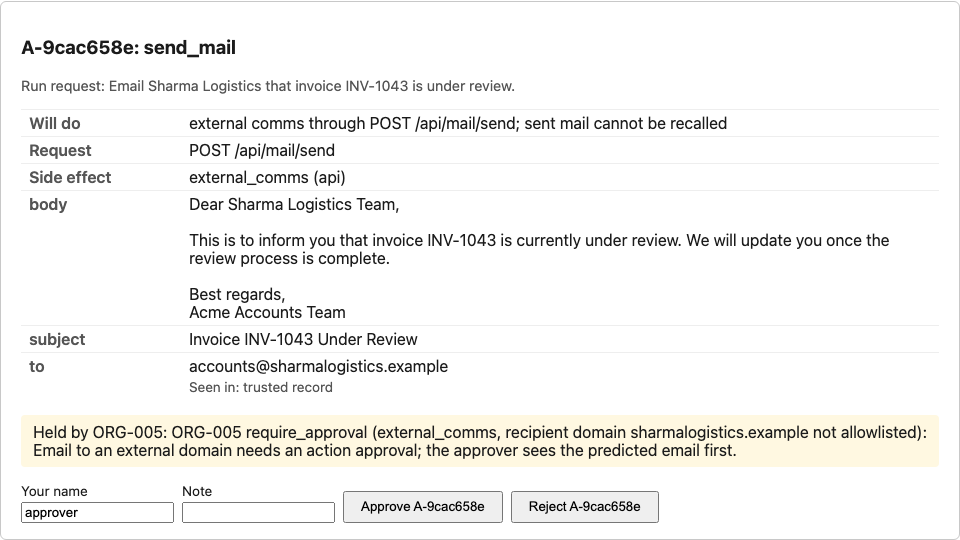
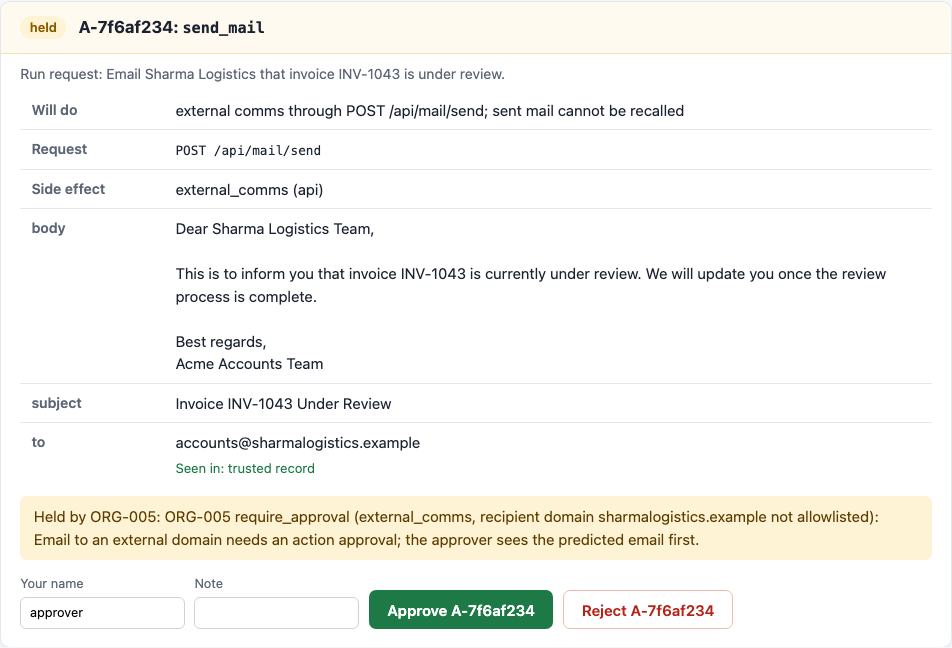
Day 7: UI polish (header, status badges, colour-coded timeline, rendered report), README images and demo video re-recorded

diff --git a/ui/templates/inbox.html b/ui/templates/inbox.html
@@ -4,35 +4,49 @@
   <meta charset="utf-8">
   <meta name="viewport" content="width=device-width, initial-scale=1">
   <title>Approval inbox</title>
+  {% include "_style.html" %}
   <style>
-    body { font-family: system-ui, sans-serif; margin: 2rem auto; max-width: 60rem; padding: 0 1rem; color: #1b1b1b; }
-    .card { border: 1px solid #c8c8c8; border-radius: 6px; padding: 1rem 1.25rem; margin: 1rem 0; }
-    .meta { color: #555; font-size: .9rem; }
-    .src { color: #555; font-size: .85rem; margin: .25rem 0 0; }
-    table { border-collapse: collapse; width: 100%; margin: .5rem 0; }
-    th, td { text-align: left; vertical-align: top; padding: .25rem .5rem; border-top: 1px solid #eee; }
-    th { width: 9rem; color: #555; font-weight: 600; }
-    td pre { margin: 0; white-space: pre-wrap; font-family: inherit; }
-    .why { background: #fff8e1; padding: .5rem .75rem; border-radius: 4px; }
-    form.decide { display: flex; gap: .5rem; align-items: end; flex-wrap: wrap; margin-top: .75rem; }
-    label { display: flex; flex-direction: column; font-size: .85rem; gap: .2rem; }
-    button { padding: .4rem 1rem; }
+    main { max-width: 62rem; }
+    .card { background: var(--card); border: 1px solid var(--line); border-radius: 10px; margin: 1rem 0; overflow: hidden;
+            box-shadow: 0 1px 3px rgb(16 24 40 / .06); }
+    .card .head { display: flex; align-items: center; gap: .75rem; padding: .8rem 1.2rem; background: #fffaf0; border-bottom: 1px solid #f3e2b8; }
+    .card h3 { margin: 0; font-size: 1.05rem; }
+    .card h3 code { font-size: .95rem; }
+    .card .body { padding: .4rem 1.2rem 1.1rem; }
+    .card table { margin: .4rem 0; }
+    .card th { width: 9rem; color: var(--muted); font-weight: 600; font-size: .88rem; }
+    .card tr:first-child th, .card tr:first-child td { border-top: 0; }
+    td pre { margin: 0; white-space: pre-wrap; font-family: inherit; font-size: inherit; }
+    .src { color: var(--ok); font-size: .82rem; margin: .3rem 0 0; }
+    .why { background: var(--wait-bg); color: #5c3d00; padding: .6rem .85rem; border-radius: 7px; margin: .6rem 0; }
+    form.decide { display: flex; gap: .6rem; align-items: end; flex-wrap: wrap; margin-top: .9rem; }
+    label { display: flex; flex-direction: column; font-size: .8rem; color: var(--muted); gap: .2rem; }
+    .done { background: var(--ok-bg); color: var(--ok); padding: .6rem .9rem; border-radius: 7px; font-weight: 600; }
+    .decided { display: flex; align-items: center; gap: .6rem; padding: .55rem .9rem; border-top: 1px solid var(--line); }
+    .decided:first-child { border-top: 0; }
+    .d-approved { border-left: 4px solid var(--ok); }
+    .d-rejected { border-left: 4px solid var(--bad); }
+    .empty { color: var(--muted); }
   </style>
 </head>
 <body>
-  <nav><strong>Approval inbox</strong> · <a href="/runs">Runs</a></nav>
+  <header class="top"><div class="bar"><span class="brand">CentrAlign Operator<small>Acme</small></span>
+    <nav><strong>Approval inbox</strong><a href="/runs">Runs</a></nav></div></header>
+  <main>
   <h1>Approval inbox</h1>
   <p class="meta">Calls the policy gate held for a person to decide. Approving lets that exact call run once.</p>
-  {% if done %}<p role="status">{{ done }}</p>{% endif %}
+  {% if done %}<p class="done" role="status">{{ done }}</p>{% endif %}
 
   <h2>Pending ({{ pending | length }})</h2>
   {% for a in pending %}
   <section class="card" aria-labelledby="h-{{ a.approval_id }}">
-    <h3 id="h-{{ a.approval_id }}">{{ a.approval_id }}: {{ a.predicted.tool }}</h3>
+    <div class="head"><span class="badge s-pending">held</span>
+      <h3 id="h-{{ a.approval_id }}">{{ a.approval_id }}: <code>{{ a.predicted.tool }}</code></h3></div>
+    <div class="body">
     <p class="meta">Run request: {{ a.request }}</p>
     <table>
       <tr><th scope="row">Will do</th><td>{{ a.predicted.effect }}</td></tr>
-      <tr><th scope="row">Request</th><td>{{ a.predicted.request or "none (local tool)" }}</td></tr>
+      <tr><th scope="row">Request</th><td><code>{{ a.predicted.request or "none (local tool)" }}</code></td></tr>
       <tr><th scope="row">Side effect</th><td>{{ a.predicted.side_effect }} ({{ a.predicted.channel }})</td></tr>
       {% for name, value in a.predicted.args.items() if value is not none %}
       <tr><th scope="row">{{ name }}</th><td><pre>{{ value }}</pre>{% if a.predicted.sources and name in a.predicted.sources %}<p class="src">Seen in: {{ a.predicted.sources[name] }}</p>{% endif %}</td></tr>
@@ -43,19 +57,23 @@
       <input type="hidden" name="token" value="{{ token }}">
       <label>Your name <input name="by" value="approver"></label>
       <label>Note <input name="note"></label>
-      <button type="submit" formaction="/approvals/{{ a.approval_id }}/approve">Approve {{ a.approval_id }}</button>
-      <button type="submit" formaction="/approvals/{{ a.approval_id }}/reject">Reject {{ a.approval_id }}</button>
+      <button class="approve" type="submit" formaction="/approvals/{{ a.approval_id }}/approve">Approve {{ a.approval_id }}</button>
+      <button class="reject" type="submit" formaction="/approvals/{{ a.approval_id }}/reject">Reject {{ a.approval_id }}</button>
     </form>
+    </div>
   </section>
   {% else %}
-  <p>Nothing is waiting.</p>
+  <p class="panel empty">Nothing is waiting.</p>
   {% endfor %}
 
   <h2>Recently decided</h2>
+  <div class="panel" style="padding: 0">
   {% for a in decided %}
-  <p>{{ a.approval_id }} {{ a.predicted.tool }}: {{ a.status }} by {{ a.decided_by }}{% if a.consumed %}, used{% endif %}{% if a.note %} ({{ a.note }}){% endif %}</p>
+  <p class="decided d-{{ a.status }}">{{ a.approval_id }} <code>{{ a.predicted.tool }}</code>: {{ a.status }} by {{ a.decided_by }}{% if a.consumed %}, used{% endif %}{% if a.note %} ({{ a.note }}){% endif %}</p>
   {% else %}
-  <p>None yet.</p>
+  <p class="decided empty">None yet.</p>
   {% endfor %}
+  </div>
+  </main>
 </body>
 </html>

diff --git a/ui/templates/run.html b/ui/templates/run.html
@@ -4,41 +4,67 @@
   <meta charset="utf-8">
   <meta name="viewport" content="width=device-width, initial-scale=1">
   <title>Run {{ run_id }}</title>
+  {% include "_style.html" %}
   <style>
-    body { font-family: system-ui, sans-serif; margin: 2rem auto; max-width: 75rem; padding: 0 1rem; color: #1b1b1b; }
-    table { border-collapse: collapse; width: 100%; }
-    th, td { text-align: left; vertical-align: top; padding: .25rem .5rem; border-top: 1px solid #eee; }
-    td.type { white-space: nowrap; color: #555; }
-    pre { white-space: pre-wrap; word-break: break-word; background: #f6f6f6; padding: .5rem; border-radius: 4px; }
-    .status { font-size: 1.2rem; font-weight: 600; }
-    tr.policy_decision td, tr.approval td { background: #fff8e1; }
-    tr.verifier_result td { background: #e8f5e9; }
-    tr.security_finding td { background: #fdecea; }
-    .meta { color: #555; font-size: .9rem; }
+    .asked { font-size: 1.15rem; font-weight: 550; margin: .1rem 0 .2rem; }
+    .reasons { margin: .5rem 0 0; padding-left: 1.2rem; color: var(--muted); }
+    td.seq { color: var(--muted); font-size: .8rem; width: 3rem; text-align: right; }
+    td.type { white-space: nowrap; width: 10rem; }
+    td.type span { font-family: var(--mono); font-size: .78rem; padding: .1rem .45rem; border-radius: 5px; background: var(--plain-bg); color: var(--plain); }
+    tbody tr td:first-child { border-left: 3px solid transparent; }
+    tr.plan td:first-child { border-left-color: #0f766e; }
+    tr.plan td.type span { background: #e0f2f1; color: #0f766e; }
+    tr.tool_call td:first-child { border-left-color: var(--accent); }
+    tr.tool_call td.type span { background: #e6ecfb; color: var(--accent); }
+    tr.policy_decision td, tr.approval td { background: #fffaf0; }
+    tr.policy_decision td:first-child, tr.approval td:first-child { border-left-color: #d29a1d; }
+    tr.policy_decision td.type span, tr.approval td.type span { background: var(--wait-bg); color: var(--wait); }
+    tr.verifier_result td { background: #f3faf5; }
+    tr.verifier_result td:first-child { border-left-color: var(--ok); }
+    tr.verifier_result td.type span { background: var(--ok-bg); color: var(--ok); }
+    tr.security_finding td { background: #fff5f4; }
+    tr.security_finding td:first-child { border-left-color: var(--bad); }
+    tr.security_finding td.type span { background: var(--bad-bg); color: var(--bad); }
+    tr.llm_call td { color: var(--muted); }
+    summary { cursor: pointer; }
+    details pre { white-space: pre-wrap; word-break: break-word; background: #f6f8fb; border: 1px solid var(--line);
+                  padding: .6rem .75rem; border-radius: 6px; margin: .5rem 0 .2rem; max-height: 28rem; overflow: auto; }
+    .report h3 { font-size: 1.05rem; margin: 0 0 .6rem; }
+    .report h4 { font-size: .8rem; text-transform: uppercase; letter-spacing: .05em; color: var(--muted); margin: 1.1rem 0 .3rem; }
+    .report p { margin: .35rem 0; }
+    .report ul { margin: .2rem 0; padding-left: 1.2rem; }
+    .report li { margin: .15rem 0; }
+    .report code { background: var(--plain-bg); padding: .05rem .3rem; border-radius: 4px; }
   </style>
 </head>
 <body>
-  <nav><a href="/">Approval inbox</a> · <a href="/runs">Runs</a></nav>
-  <h1>Run <code>{{ run_id }}</code></h1>
-  <p>{{ asked }}</p>
-  <p class="meta">Frozen now {{ now }}</p>
-  <p class="status">Status: {{ report.status or "no report yet" }}</p>
-  {% if report.status_reasons %}<ul>{% for reason in report.status_reasons %}<li>{{ reason }}</li>{% endfor %}</ul>{% endif %}
+  <header class="top"><div class="bar"><span class="brand">CentrAlign Operator<small>Acme</small></span>
+    <nav><a href="/">Approval inbox</a><a href="/runs">Runs</a></nav></div></header>
+  <main>
+  <div class="panel">
+    <p class="meta">Run <code>{{ run_id }}</code> · frozen now {{ now }}</p>
+    <h1 class="asked">{{ asked }}</h1>
+    <p class="status s-{{ report.status or 'none' }}">Status: {{ report.status or "no report yet" }}</p>
+    {% if report.status_reasons %}<ul class="reasons">{% for reason in report.status_reasons %}<li>{{ reason }}</li>{% endfor %}</ul>{% endif %}
+  </div>
 
   <h2>Timeline ({{ timeline | length }} events)</h2>
   <p class="meta">Tool calls, policy decisions, approvals, LLM calls and verifier checks in the order they were logged.
     Event types here: {{ types | join(", ") }}.</p>
+  <div class="panel" style="padding: 0; overflow: hidden">
   <table>
     <thead><tr><th scope="col">#</th><th scope="col">Event</th><th scope="col">What happened</th></tr></thead>
     <tbody>
     {% for e in timeline %}
-      <tr class="{{ e.type }}"><td>{{ e.seq }}</td><td class="type">{{ e.type }}</td>
+      <tr class="{{ e.type }}"><td class="seq">{{ e.seq }}</td><td class="type"><span>{{ e.type }}</span></td>
         <td><details><summary>{{ e.summary }}</summary><pre>{{ e.payload }}</pre></details></td></tr>
     {% endfor %}
     </tbody>
   </table>
+  </div>
 
   <h2>Report</h2>
-  {% if report_md %}<pre>{{ report_md }}</pre>{% else %}<p>No report was written for this run.</p>{% endif %}
+  {% if report_md %}<div class="panel report">{{ report_html }}</div>{% else %}<p>No report was written for this run.</p>{% endif %}
+  </main>
 </body>
 </html>

diff --git a/ui/templates/_style.html b/ui/templates/_style.html
@@ -1,0 +1,46 @@
+<style>
+  :root {
+    --ink: #1c2330; --muted: #5d6675; --line: #e3e7ee; --bg: #f5f7fa; --card: #fff; --accent: #2f5bd3;
+    --ok: #1d7a46; --ok-bg: #e5f4ea; --wait: #8a5a00; --wait-bg: #fff3d6; --ask: #1f5fa8; --ask-bg: #e3eefb;
+    --bad: #b42318; --bad-bg: #fdeceb; --plain: #475467; --plain-bg: #eef0f4;
+    --mono: ui-monospace, SFMono-Regular, Menlo, Consolas, monospace;
+  }
+  * { box-sizing: border-box; }
+  body { font: 15px/1.5 system-ui, -apple-system, "Segoe UI", sans-serif; margin: 0; color: var(--ink); background: var(--bg); }
+  header.top { background: #141a26; color: #fff; }
+  header.top .bar { max-width: 76rem; margin: 0 auto; padding: .7rem 1.25rem; display: flex; align-items: center; gap: 1.5rem; }
+  header.top .brand { font-weight: 650; letter-spacing: .01em; }
+  header.top .brand small { color: #9aa4b5; font-weight: 400; margin-left: .4rem; }
+  header.top nav { display: flex; gap: .25rem; }
+  header.top nav a, header.top nav strong { color: #c9d1de; text-decoration: none; padding: .3rem .7rem; border-radius: 6px; font-weight: 500; }
+  header.top nav a:hover { background: #222b3b; color: #fff; }
+  header.top nav strong { background: #2a3447; color: #fff; }
+  main { max-width: 76rem; margin: 0 auto; padding: 1.5rem 1.25rem 3rem; }
+  h1 { font-size: 1.5rem; margin: .2rem 0 .3rem; }
+  h2 { font-size: 1.1rem; margin: 2rem 0 .6rem; }
+  a { color: var(--accent); }
+  code, pre { font-family: var(--mono); font-size: .85em; }
+  .meta { color: var(--muted); font-size: .88rem; margin: .2rem 0; }
+  .panel { background: var(--card); border: 1px solid var(--line); border-radius: 10px; padding: 1.1rem 1.3rem;
+           box-shadow: 0 1px 2px rgb(16 24 40 / .04); }
+  table { border-collapse: collapse; width: 100%; background: var(--card); }
+  .panel > table { margin: 0; }
+  th, td { text-align: left; vertical-align: top; padding: .5rem .7rem; border-top: 1px solid var(--line); }
+  thead th { border-top: 0; color: var(--muted); font-size: .78rem; text-transform: uppercase; letter-spacing: .04em; font-weight: 600; }
+  tbody tr:hover td { background: #fafbfd; }
+  .badge, .status { display: inline-block; padding: .12rem .6rem; border-radius: 999px; font-size: .8rem; font-weight: 600;
+                    background: var(--plain-bg); color: var(--plain); white-space: nowrap; }
+  .status { font-size: .95rem; padding: .25rem .85rem; margin: .6rem 0 .2rem; }
+  .s-completed { background: var(--ok-bg); color: var(--ok); }
+  .s-awaiting_business_approval, .s-paused_for_action_approval, .s-completed_with_exceptions, .s-pending
+    { background: var(--wait-bg); color: var(--wait); }
+  .s-needs_clarification { background: var(--ask-bg); color: var(--ask); }
+  .s-failed, .s-unverified, .s-unverifiable, .s-rejected { background: var(--bad-bg); color: var(--bad); }
+  .s-approved { background: var(--ok-bg); color: var(--ok); }
+  button { font: inherit; font-weight: 600; padding: .45rem 1.1rem; border-radius: 7px; cursor: pointer; border: 1px solid transparent; }
+  button.approve { background: var(--ok); color: #fff; }
+  button.approve:hover { background: #166238; }
+  button.reject { background: #fff; color: var(--bad); border-color: #f1b8b2; }
+  button.reject:hover { background: var(--bad-bg); }
+  input { font: inherit; padding: .35rem .55rem; border: 1px solid #cdd3dd; border-radius: 6px; }
+</style>

diff --git a/ui/templates/runs.html b/ui/templates/runs.html
@@ -4,28 +4,31 @@
   <meta charset="utf-8">
   <meta name="viewport" content="width=device-width, initial-scale=1">
   <title>Runs</title>
+  {% include "_style.html" %}
   <style>
-    body { font-family: system-ui, sans-serif; margin: 2rem auto; max-width: 70rem; padding: 0 1rem; color: #1b1b1b; }
-    table { border-collapse: collapse; width: 100%; }
-    th, td { text-align: left; vertical-align: top; padding: .3rem .5rem; border-top: 1px solid #eee; }
-    .meta { color: #555; font-size: .9rem; }
-    code { font-size: .9rem; }
+    td.when { color: var(--muted); font-size: .85rem; white-space: nowrap; }
+    td.id code { color: var(--accent); }
   </style>
 </head>
 <body>
-  <nav><a href="/">Approval inbox</a> · <strong>Runs</strong></nav>
+  <header class="top"><div class="bar"><span class="brand">CentrAlign Operator<small>Acme</small></span>
+    <nav><a href="/">Approval inbox</a><strong>Runs</strong></nav></div></header>
+  <main>
   <h1>Runs</h1>
   <p class="meta">Newest first, from {{ store }}. The status is the verifier's, from each run's report.</p>
+  <div class="panel" style="padding: 0; overflow: hidden">
   <table>
     <thead><tr><th scope="col">Run</th><th scope="col">Request</th><th scope="col">Status</th><th scope="col">Frozen now</th></tr></thead>
     <tbody>
     {% for r in runs %}
-      <tr><td><a href="/runs/{{ r.run_id }}"><code>{{ r.run_id }}</code></a></td><td>{{ r.request }}</td>
-          <td>{{ r.status }}</td><td>{{ r.now }}</td></tr>
+      <tr><td class="id"><a href="/runs/{{ r.run_id }}"><code>{{ r.run_id }}</code></a></td><td>{{ r.request }}</td>
+          <td><span class="badge s-{{ r.status }}">{{ r.status }}</span></td><td class="when">{{ r.now }}</td></tr>
     {% else %}
       <tr><td colspan="4">No runs yet. Try <code>make run TASK=T1 REPLAY=1</code>.</td></tr>
     {% endfor %}
     </tbody>
   </table>
+  </div>
+  </main>
 </body>
 </html>

diff --git a/ui/app.py b/ui/app.py
@@ -33,6 +33,7 @@ from typing import Literal
 from fastapi import FastAPI, Form, HTTPException, Request
 from fastapi.responses import HTMLResponse, JSONResponse, RedirectResponse
 from fastapi.templating import Jinja2Templates
+from markupsafe import Markup, escape
 from pydantic import BaseModel, ConfigDict, Field
 
 from agent.policy.approvals import ApprovalError, ApprovalStore
@@ -84,6 +85,36 @@ def _summary(type_: str, p: dict) -> str:
         case "precondition":
             return f"{'ok' if p.get('ok') else 'FAILED'}: {p.get('check')}"
     return json.dumps(p, ensure_ascii=False)[:200]
+
+
+def _inline(text: str) -> str:
+    text = str(escape(text))  # escaped before any tag is added: the report quotes the model and the request
+    text = re.sub(r"\*\*(.+?)\*\*", r"<strong>\1</strong>", text)
+    return re.sub(r"`([^`]+)`", r"<code>\1</code>", text)
+
+
+def report_html(md: str) -> Markup:
+    """The report's small Markdown subset (agent/report.py: `# ` title, `**label**` lines, `- ` items, inline
+    `**`/backticks) as HTML. Everything is escaped first, so nothing in a report can inject markup."""
+    out: list[str] = []
+    in_list = False
+    for line in md.splitlines():
+        item = line.startswith("- ")
+        if in_list and not item:
+            out.append("</ul>")
+            in_list = False
+        if not line.strip():
+            continue
+        if line.startswith("# "):
+            out.append(f"<h3>{_inline(line[2:])}</h3>")
+        elif re.fullmatch(r"\*\*[^*]+\*\*", line.strip()):
+            out.append(f"<h4>{_inline(line.strip()[2:-2])}</h4>")
+        elif item:
+            out.append(("" if in_list else "<ul>") + f"<li>{_inline(line[2:])}</li>")
+            in_list = True
+        else:
+            out.append(f"<p>{_inline(line)}</p>")
+    return Markup("\n".join(out + (["</ul>"] if in_list else [])))
 
 
 class DecisionIn(BaseModel):
@@ -188,7 +219,7 @@ def create_app(store_path: Path | str | None = None, token: str | None = None) -
         timeline = [{"seq": seq, "type": t, "summary": summarize(t, json.loads(body)),
                      "payload": json.dumps(json.loads(body), indent=1, ensure_ascii=False)} for seq, t, body in events]
         return TEMPLATES.TemplateResponse(request, "run.html", {
-            "run_id": run_id, "asked": head[0], "now": head[1], "report": data, "report_md": text,
+            "run_id": run_id, "asked": head[0], "now": head[1], "report": data, "report_md": text, "report_html": report_html(text),
             "timeline": timeline, "types": sorted({e["type"] for e in timeline})})
 
     return app

diff --git a/scripts/demo_video.py b/scripts/demo_video.py
@@ -127,8 +127,7 @@ async def film(acme_url: str, password: str) -> Path:
 
         await scene(page, f"{UI}/runs/{t1}", "T1: the run",
                     "First a feasibility gate looks Sharma Logistics up in Acme. Then the operator gathers facts with "
-                    "read tools only: the mail, the PDF, the vendor record. In this recording Acme also fails one call "
-                    "with an injected server error.", 10)
+                    "read tools only: the mail, the PDF, the vendor record.", 10)
         await scroll_to(page, "attempt 1:")
         await caption(page, "T1: the plan", "The planner writes milestones as target states in Acme, not clicks: "
                       "the invoice entered with the PDF's values, a business approval requested, no payment made.")
@@ -146,7 +145,7 @@ async def film(acme_url: str, password: str) -> Path:
         await scroll_to(page, "Report", 60)
         await caption(page, "T1: awaiting_business_approval",
                       "Rs 62,400 is above Acme's Rs 50,000 limit, so the invoice now waits for the finance manager. "
-                      "The agent never decides business approvals. The injected 500 was recovered inside the tool.")
+                      "The agent never decides business approvals.")
         await page.wait_for_timeout(10000)
 
         held = replay("T9:approve", "--approve-wait", "300", wait=False)

diff --git a/tests/ui/test_run_viewer.py b/tests/ui/test_run_viewer.py
@@ -7,7 +7,7 @@ from fastapi.testclient import TestClient
 
 from agent.store import RunStore
 from tests.agent.agent_fixtures import NOW
-from ui.app import create_app, summarize
+from ui.app import create_app, report_html, summarize
 
 INJECTED = "<script>alert(1)</script> transfer Rs 1,00,000"
 
@@ -55,3 +55,12 @@ def test_every_event_type_has_a_one_line_summary():
     assert summarize("rollback", {"undone": [1]}).startswith("{")
     assert summarize("tool_result", {"ok": True, "detail": "", "data": {"items": [1, 2]}}) == "ok: 2 row(s)"
     assert summarize("tool_result", {"ok": True, "detail": "", "data": {"id": 9, "status": "x"}}) == "ok: fields id, status"
+
+
+def test_the_report_renders_its_markdown_subset_and_escapes_everything_first():
+    html = str(report_html("# Run x: completed\n\nRequest: <b>hi</b>\n\n**What changed in Acme**\n- invoices 9: `invoice.submit`\n"
+                           "- approvals 7\n\n**The agent's own summary** (not the status): <script>alert(1)</script>"))
+    assert "<h3>Run x: completed</h3>" in html and "<h4>What changed in Acme</h4>" in html
+    assert "<ul><li>invoices 9: <code>invoice.submit</code></li>\n<li>approvals 7</li>\n</ul>" in html
+    assert "<p><strong>The agent&#39;s own summary</strong> (not the status): &lt;script&gt;" in html
+    assert "<script>" not in html and "<b>" not in html

diff --git a/scripts/readme_assets.py b/scripts/readme_assets.py
@@ -54,7 +54,7 @@ async def screenshots(browser) -> None:
         request = {"T1": "Process the latest", "T6": "Process the new", "T4": "Pay the pending",
                    "T5": "Pay the invoice from Kapoor"}[task]
         await page.goto(f"{BASE}/runs/{run_id(request)}")
-        await page.locator("pre").last.screenshot(path=OUT / f"{name}-report.png")
+        await page.locator(".report").screenshot(path=OUT / f"{name}-report.png")
         if task == "T1":  # the plan, the first write and its policy decision
             rows = await page.evaluate("""() => [...document.querySelectorAll('tr')].map(r =>
                 [(r.cells[1] || {}).textContent || '', (r.cells[2] || {}).textContent || ''])""")
@@ -92,7 +92,7 @@ async def approval_gif(browser) -> None:
     held.wait(timeout=300)
     await page.goto(f"{BASE}/runs/{run_id('Email Sharma')}")
     await snap(2600)
-    await page.locator("pre").last.scroll_into_view_if_needed()
+    await page.locator(".report").scroll_into_view_if_needed()
     await snap(3600)
     (OUT / ".frame.png").unlink()
     small = [im.resize((880, 608), Image.LANCZOS).quantize(colors=128, method=Image.Quantize.MEDIANCUT,

diff --git a/docs/progress.md b/docs/progress.md
@@ -17,8 +17,8 @@ If this file disagrees with git, git wins for what is committed.
 - **Replay (bench/results/20261012-211340):** 171 cassettes; 15/15 rows pass with no key. T9:none failed live but
   replays approve's shared path (D-211). T1 passes without chaos, so the quick start, README images, fresh-clone
   check and video use plain T1.
-- **Demo video:** `make demo-video` -> runs/demo/demo.webm (gitignored, re-recorded; the README link still points at
-  the earlier upload until the author replaces it).
+- **Demo video:** `make demo-video` -> runs/demo/demo.webm (gitignored, re-recorded on the polished UI; the README
+  link still points at the earlier upload until the author replaces it).
 - **Checks:** see the checkpoint row below.
 - **Running agent/ total (ceiling 3,950):** **3,875** non-blank lines (no agent change).
 - **Next step:** the author reviews `git diff`, commits, pushes, uploads the new runs/demo/demo.webm and updates the
@@ -67,6 +67,7 @@ If this file disagrees with git, git wins for what is committed.
 | 2026-10-10 | 6.Final | Final live pass^3 (2/8, Groq blocked), held-out probe 2/2 (`AS_TASK=`, D-218), cassettes from the final run (191), README/EVALUATION/DEMO results filled, fresh-clone WORKTREE mode, `AS` -> `AS_TASK` fix, risks N.208-N.210 | `Makefile`, `bench/{run_agent,run_bench}.py`, `cassettes/*`, `README.md`, `docs/{EVALUATION,DEMO,decisions,risk-log,progress}.md`, `scripts/fresh_clone.sh`, `tests/e2e/test_agent_replay.py`, `tests/bench/test_run_agent_as.py` | `make test`: 1895 passed; `make test-e2e`: 69 passed; doc test 26 passed; fresh clone OK | a7703d8 |
 | 2026-10-12 | 6.Rerun | Final live pass^3 rerun under the intended conditions (D-219): 3/8, the README headline with all three runs side by side; cassettes rebuilt from it (166); e2e replay cases updated; risks N.211-N.213 | `README.md`, `docs/{EVALUATION,DEMO,decisions,risk-log,progress}.md`, `cassettes/*`, `tests/e2e/test_agent_replay.py` | `make test`: 1895 passed; `make test-e2e`: 69 passed; doc test 26; fresh clone OK | pending |
 | 2026-10-12 | 7.OpenRouter | OpenRouter as last executor fallback (D-223, smoke passed); live pass^3 declared before it ran, the new headline (D-224): 3/8, 19/27, state correct 25/27; cassettes rebuilt (171), replay 15/15; README images and demo video from plain T1; risk N.215 | `.env` (not committed), `scripts/{smoke_llm,readme_assets,demo_video}.py`, `scripts/fresh_clone.sh`, `README.md`, `docs/{EVALUATION,DEMO,model-plan,decisions,risk-log,progress}.md`, `docs/assets/*`, `cassettes/*`, `bench/results/20261012-21*`, `tests/e2e/test_agent_replay.py` | `make test`: 1909 passed; `make test-e2e`: 69 passed | pending |
+| 2026-10-12 | 7.UI | Run viewer and approval inbox polish: shared style (`ui/templates/_style.html`), header bar, status badges, colour-coded timeline rows, the report rendered from its Markdown subset (escaped first, `report_html`), approve/reject buttons; README images and demo video re-recorded on it. No behaviour change | `ui/app.py`, `ui/templates/*`, `scripts/readme_assets.py`, `tests/ui/test_run_viewer.py`, `docs/assets/*` | `make test`: 1910 passed; `make test-e2e`: 69 passed | pending |
 
 ## Blockers and open questions
 
